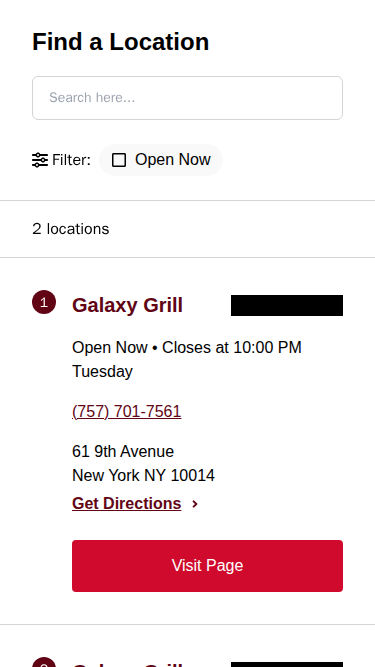
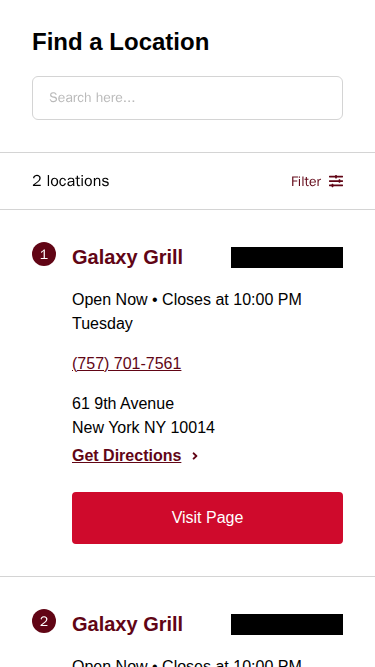
chore: move Open Now in locator to filters modal (#821)
J=WAT-5112
TEST=manual

tested in dev mode & live site

https://github.com/user-attachments/assets/4622d774-4833-4a6f-95fe-8eea2a3c4c2d

---------

diff --git a/packages/visual-editor/src/components/Locator.tsx b/packages/visual-editor/src/components/Locator.tsx
@@ -40,7 +40,6 @@ import {
   Heading,
   msg,
   useDocument,
-  Toggle,
   YextField,
   useTemplateProps,
   resolveUrlTemplate,
@@ -54,9 +53,14 @@ import {
   HoursType,
 } from "@yext/pages-components";
 import { MapPinIcon } from "./MapPinIcon.js";
-import { FaAngleRight, FaCheckSquare, FaRegSquare } from "react-icons/fa";
+import {
+  FaAngleRight,
+  FaCheckSquare,
+  FaRegSquare,
+  FaSlidersH,
+  FaTimes,
+} from "react-icons/fa";
 import { formatPhoneNumber } from "./atoms/phone.js";
-import { FaSliders } from "react-icons/fa6";
 
 const DEFAULT_FIELD = "builtin.location";
 const DEFAULT_ENTITY_TYPE = "location";
@@ -453,6 +457,8 @@ const LocatorInternal = ({
     );
   }, [searchFilters]);
 
+  const [showFilter, setShowFilter] = React.useState(false);
+
   return (
     <div className="components flex h-screen w-screen mx-auto">
       {/* Left Section: FilterSearch + Results. Full width for small screens */}
@@ -477,50 +483,84 @@ const LocatorInternal = ({
               radius: 25,
             }}
           />
-          {openNowButton && (
-            <div className={"flex flex-row gap-2 items-center"}>
-              <div className={"flex items-center gap-1"}>
-                <FaSliders />
-                <span className="font-bold">
-                  {t("locatorFilterLabel", "Filter:")}
-                </span>
-              </div>
-              <Toggle
-                pressed={isSelected}
-                onPressedChange={(pressed) => handleOpenNowClick(pressed)}
-                className="inline-flex py-1 px-3 w-auto"
+        </div>
+        <div className="px-8 py-4 text-body-fontSize border-y border-gray-300 relative inline-block">
+          <div className="flex flex-row justify-between">
+            <div>
+              {resultCount === 0 &&
+                searchState === "not started" &&
+                t(
+                  "useOurLocatorToFindALocationNearYou",
+                  "Use our locator to find a location near you"
+                )}
+              {resultCount === 0 &&
+                searchState === "complete" &&
+                t(
+                  "noResultsFoundForThisArea",
+                  "No results found for this area"
+                )}
+              {resultCount > 0 &&
+                (filterDisplayName
+                  ? t(
+                      "locationsNear",
+                      `${resultCount} locations near "${filterDisplayName}"`,
+                      {
+                        count: resultCount,
+                        filterDisplayName,
+                      }
+                    )
+                  : t("locationWithCount", `${resultCount} locations`, {
+                      count: resultCount,
+                    }))}
+            </div>
+            {openNowButton && (
+              <button
+                className="inline-flex justify-between items-center gap-2 font-bold text-body-sm-fontSize bg-white text-palette-primary-dark"
+                onClick={() => setShowFilter((prev) => !prev)}
               >
-                <span className="inline-flex items-center gap-2">
-                  {isSelected ? <FaCheckSquare /> : <FaRegSquare />}
-                  {t("openNow", "Open Now")}
-                </span>
-              </Toggle>
+                {t("filter", "Filter")}
+                {<FaSlidersH />}
+              </button>
+            )}
+          </div>
+          {showFilter && (
+            <div
+              id="popup"
+              className="absolute top-0 z-50 w-80 flex flex-col bg-white shadow-lg absolute left-full top-0 ml-2 rounded-md shadow-lg"
+            >
+              <div className="inline-flex justify-between items-center px-6 py-4 gap-4 border-b border-gray-300">
+                <div className="font-bold">
+                  {t("refineYourSearch", "Refine Your Search")}
+                </div>
+                <button
+                  className="text-palette-primary-dark"
+                  onClick={() => setShowFilter(false)}
+                >
+                  <FaTimes />
+                </button>
+              </div>
+              <div className="flex flex-col p-6 gap-6">
+                <div className="flex flex-col gap-8">
+                  <div className="flex flex-col gap-4">
+                    <div className="font-bold">{t("hours", "Hours")}</div>
+                    <div className="flex flex-row gap-1">
+                      <button
+                        className="inline-flex bg-white"
+                        onClick={() => handleOpenNowClick(!isSelected)}
+                      >
+                        <div className="inline-flex items-center gap-4">
+                          {t("openNow", "Open Now")}
+                          <div className="text-palette-primary-dark">
+                            {isSelected ? <FaCheckSquare /> : <FaRegSquare />}
+                          </div>
+                        </div>
+                      </button>
+                    </div>
+                  </div>
+                </div>
+              </div>
             </div>
           )}
-        </div>
-        <div className="px-8 py-4 text-body-fontSize border-y border-gray-300">
-          {resultCount === 0 &&
-            searchState === "not started" &&
-            t(
-              "useOurLocatorToFindALocationNearYou",
-              "Use our locator to find a location near you"
-            )}
-          {resultCount === 0 &&
-            searchState === "complete" &&
-            t("noResultsFoundForThisArea", "No results found for this area")}
-          {resultCount > 0 &&
-            (filterDisplayName
-              ? t(
-                  "locationsNear",
-                  `${resultCount} locations near "${filterDisplayName}"`,
-                  {
-                    count: resultCount,
-                    filterDisplayName,
-                  }
-                )
-              : t("locationWithCount", `${resultCount} locations`, {
-                  count: resultCount,
-                }))}
         </div>
         <div id="innerDiv" className="overflow-y-auto" ref={resultsContainer}>
           {resultCount > 0 && (
